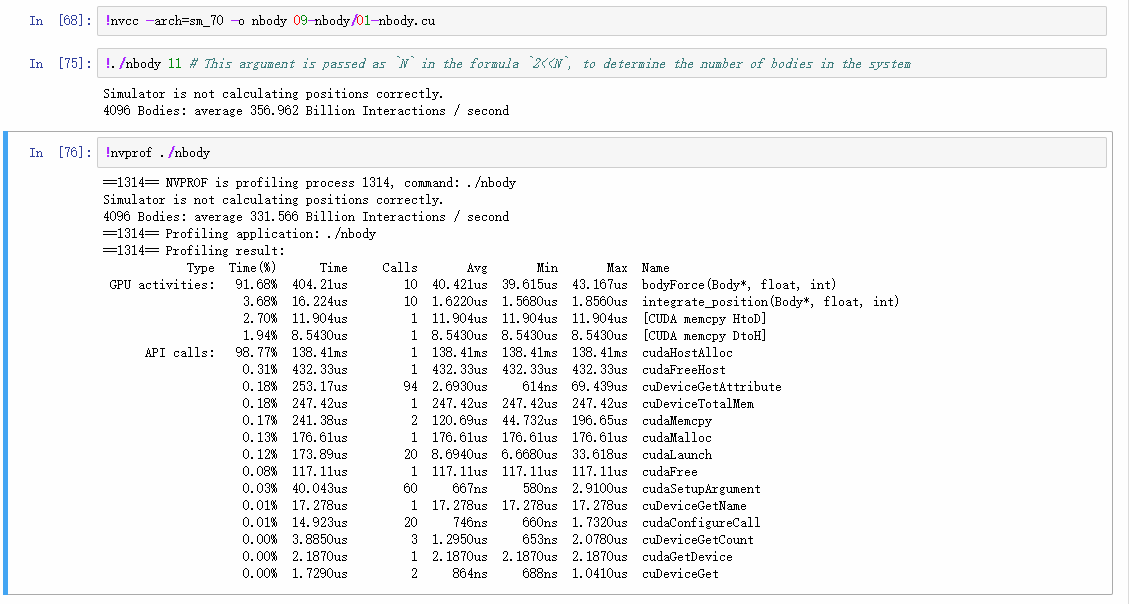
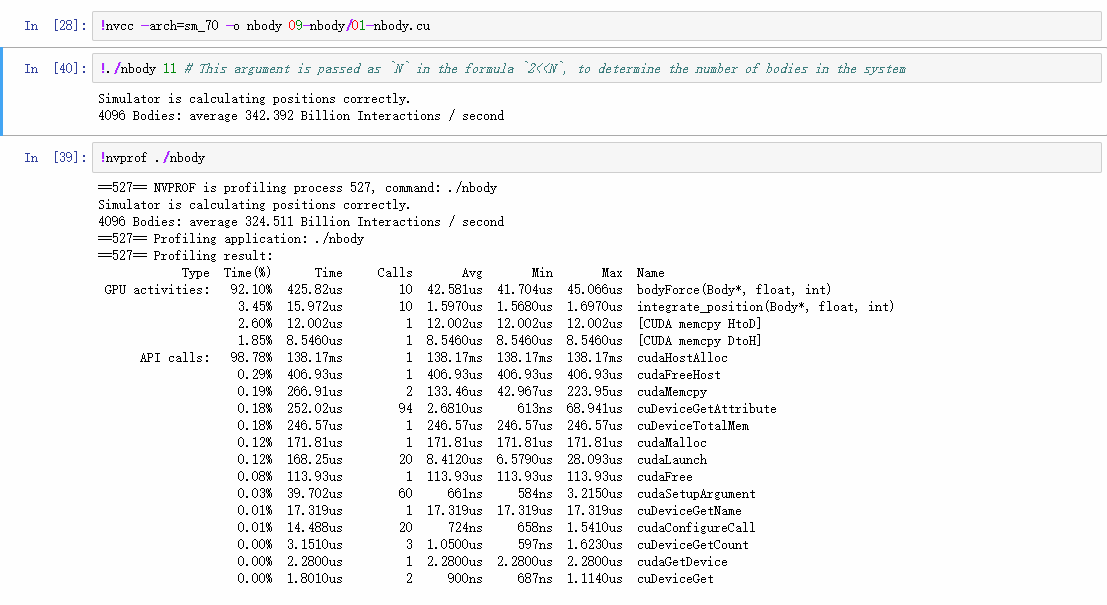
修改best图片，之前错了

diff --git a/README.md b/README.md
@@ -24,14 +24,14 @@
 未加速时CPU程序性能
 ![ori](./pic/ori.png)
 
-基础并行版本性能
+`基础并行`版本性能
 ![parallel](./pic/parallel.png)
 
-shuffle 版本性能
+`shuffle + 分块` 版本性能
 ![shuffle](./pic/shuffle.png)
 
-使用 shared_memory 的性能
+使用 `shared_memory + 分块` 的性能，这里的 `BLOCK_STRIDE` 改为 `1` 即约等于原 `shared_memory` 版本的性能。
 ![shared](./pic/shared.png)
 
-偷偷再加了一点针对4096个body的优化的最佳结果
+偷偷再加了一点针对4096个body的优化的最佳结果(测了几次得到的某一次最好的结果)
 ![best](./pic/best.png)
